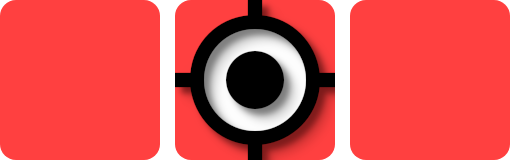
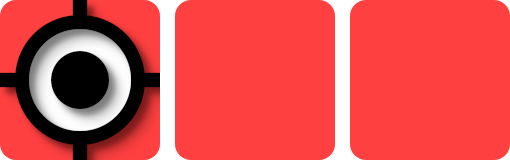
Adicionada ideologia de centro.

diff --git a/scripts/main.js b/scripts/main.js
@@ -885,15 +885,26 @@ class ModalResult {
         if (GlobalUser.testScore.side == 1) {
             // apresenta apenas o alerta da esquerda:
             $("#alert-left").removeClass("d-none");
+            $("#alert-center").addClass("d-none");
             $("#alert-right").addClass("d-none");
             // informa a ideologia do usuario:
             $("#label-left").text(GlobalUser.testScore.name);
         }
+        // informa a ideologia de centro do usuario:
+        else if (GlobalUser.testScore.side == 0) {
+            // apresenta apenas o alerta da direita:
+            $("#alert-left").addClass("d-none");
+            $("#alert-center").removeClass("d-none");
+            $("#alert-right").addClass("d-none");
+            // informa a ideologia do usuario:
+            $("#label-center").text(GlobalUser.testScore.name);
+        }
         // informa a ideologia de direita do usuario:
         else {
             // apresenta apenas o alerta da direita:
-            $("#alert-right").removeClass("d-none");
             $("#alert-left").addClass("d-none");
+            $("#alert-center").addClass("d-none");
+            $("#alert-right").removeClass("d-none");
             // informa a ideologia do usuario:
             $("#label-right").text(GlobalUser.testScore.name);
         }
@@ -901,7 +912,7 @@ class ModalResult {
         // obtem os emojis para elaborar o texto para o clipboard:
         let siteTitle = self.#dataEmoji(".btn-clipboard");
         let hashIdeal = GlobalUser.testScore.name.hashtag();
-        let lineSide = GlobalUser.testScore.side == 1 ? self.#dataEmoji("#alert-left") : self.#dataEmoji("#alert-right");
+        let lineSide = GlobalUser.testScore.side == 1 ? self.#dataEmoji("#alert-left") : GlobalUser.testScore.side == 0 ? self.#dataEmoji("#alert-center") : self.#dataEmoji("#alert-right");
         let line1 = self.equality >= self.market ? self.#dataEmoji("#bar-equality") : self.#dataEmoji("#bar-market");
         let line2 = self.global >= self.national ? self.#dataEmoji("#bar-global") : self.#dataEmoji("#bar-national");
         let line3 = self.liberty >= self.authority ? self.#dataEmoji("#bar-liberty") : self.#dataEmoji("#bar-authority");

diff --git a/index.html b/index.html
@@ -500,6 +500,9 @@
                         <div id="alert-left" class="alert alert-side alert-danger d-none" role="alert" data-emoji="&#x1F7E5; &#x1F7E5; &#x1F7E5; &#x1F7E5; Esquerda">
                             <h5 class="h-axis text-danger text-center">Esquerda: <span id="label-left" class="weight-300"></span></h5>
                         </div>
+                        <div id="alert-center" class="alert alert-side alert-success d-none" role="alert" data-emoji="&#x1F7E9; &#x1F7E9; &#x1F7E9; &#x1F7E9; Centro">
+                            <h5 class="h-axis text-success text-center">Centro: <span id="label-center" class="weight-300"></span></h5>
+                        </div>
                         <div id="alert-right" class="alert alert-side alert-primary d-none" role="alert" data-emoji="&#x1F7E6; &#x1F7E6; &#x1F7E6; &#x1F7E6; Direita">
                             <h5 class="h-axis text-primary text-center">Direita: <span id="label-right" class="weight-300"></span></h5>
                         </div>

diff --git a/data/political-gps.js b/data/political-gps.js
@@ -402,7 +402,7 @@ var dataPoliticalGps = {
         },
         {
             name: "Tecnocrata",
-            side: 2,
+            side: 0,
             rate: {
                 econ: 60,
                 dipl: 60,
@@ -410,16 +410,16 @@ var dataPoliticalGps = {
                 scty: 70,
             },
         },
-        // {
-        //     name: "Centrista",
-        //     side: 1,
-        //     rate: {
-        //         econ: 50,
-        //         dipl: 50,
-        //         govt: 50,
-        //         scty: 50,
-        //     },
-        // },
+        {
+            name: "Centrista",
+            side: 0,
+            rate: {
+                econ: 50,
+                dipl: 50,
+                govt: 50,
+                scty: 50,
+            },
+        },
         {
             name: "Liberal",
             side: 2,
